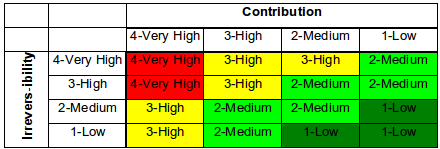
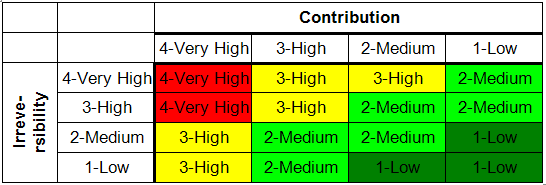
MRD-3985: New stress-based threat rating images from Jeremy

diff --git a/source/resources/ThreatRatingExplanationOfStressBasedCalculation.html b/source/resources/ThreatRatingExplanationOfStressBasedCalculation.html
@@ -32,19 +32,19 @@ A rule-based procedure is then used to combine the rankings for the Scope and Se
 variables to get a ranking of Threat Magnitude.  Under these rules, if a threat is 
 rated 'low' on either variable, then the magnitude is 'low' overall. 
 </p>
-<img src="images/StressBasedRules1.png"  width='436' height='135'>
+<img src="images/StressBasedRules1.png"  width='544' height='184'>
 
 <p>
 <b>Source of Stress Ranking:</b> A source rank is the calculated by combining the 
 rankings for Contribution and Irreversibility as shown in the matrix below.
 </p>
-<img src="images/StressBasedRules2.png"  width='440' height='149'>
+<img src="images/StressBasedRules2.png"  width='546' height='185'>
 
 <p>
 <b>Combining Stress and Source Ranks:</b> The source rank calculated from the first matrix 
 is then combined with the stress rank which was calculated from the Stress Ranking matrix 
 as shown in the matrix below.
 </p>
-<img src="images/StressBasedRules3.png"  width='438' height='138'>
+<img src="images/StressBasedRules3.png"  width='546' height='185'>
 
 </html>
